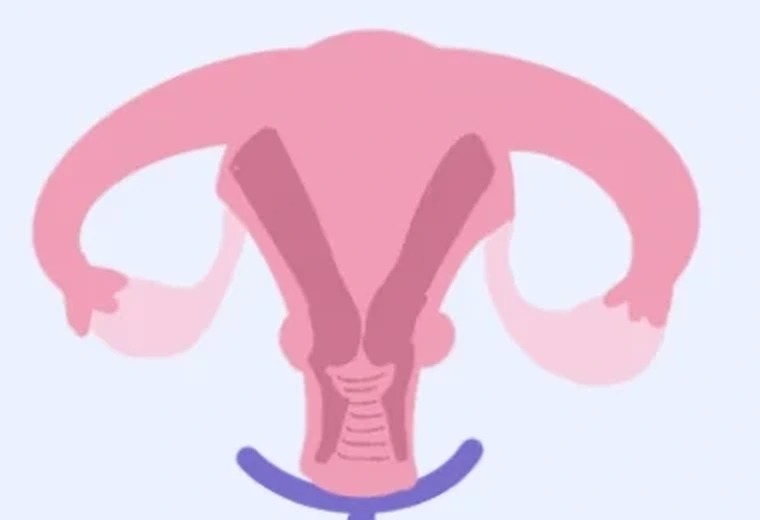
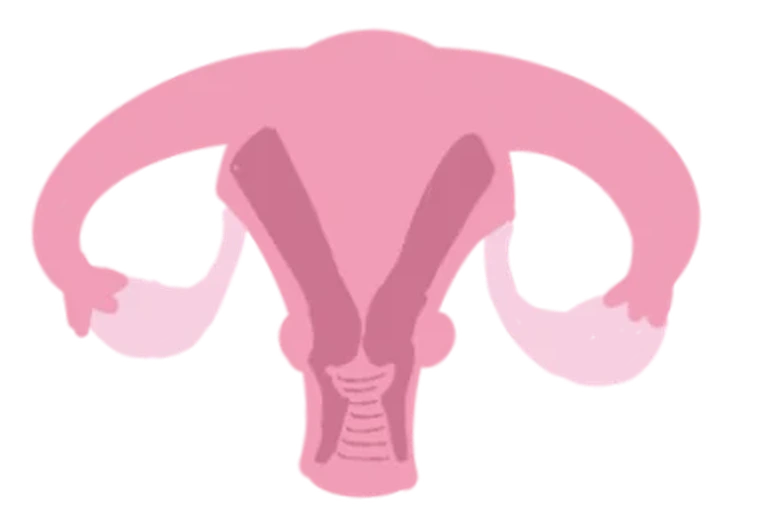
Draft: use Alexandra's clean uterus drawing for the lining panel

Changed region(s): [[0.3026, 0.8308, 0.6355, 1.0]]

diff --git a/cycle.html b/cycle.html
@@ -117,7 +117,7 @@
     @media(max-width:420px){.minis{grid-template-columns:1fr}}
     .tiles{display:grid;grid-template-columns:1fr 1fr;gap:10px;margin-bottom:10px;}
     .tile{margin:0;background:linear-gradient(180deg,#fdf6f9,#f7f1fc);border:1px solid #efe3f0;border-radius:14px;overflow:hidden;}
-    .tile svg{width:100%;height:auto;display:block;}
+    .tile svg{width:100%;height:auto;aspect-ratio:300/170;display:block;}
     .tile figcaption{padding:2px 12px 10px;font-size:.84rem;line-height:1.35;color:#4b5563;}
     .tile figcaption b{display:block;color:var(--text);font-size:.9rem;}
     @media(max-width:420px){.tiles{grid-template-columns:1fr}}
@@ -292,7 +292,7 @@
             <svg width="0" height="0" style="position:absolute" aria-hidden="true"><defs><radialGradient id="iAnt" cx=".45" cy=".45" r=".6"><stop offset="0" stop-color="#f6ecfc"/><stop offset="1" stop-color="#c9aee8"/></radialGradient></defs></svg>
             <div class="tiles">
               <figure class="tile"><svg id="ovsvg" viewBox="0 0 300 170" role="img" aria-labelledby="ovcap"></svg><figcaption><b>Ovary</b><span id="ovcap"></span></figcaption></figure>
-              <figure class="tile"><svg id="lnsvg" viewBox="0 0 300 170" role="img" aria-labelledby="lncap"></svg><figcaption><b>Uterine lining</b><span id="lncap"></span></figcaption></figure>
+              <figure class="tile"><svg id="lnsvg" viewBox="0 0 380 260" preserveAspectRatio="xMidYMid meet" role="img" aria-labelledby="lncap"></svg><figcaption><b>Uterus &amp; lining</b><span id="lncap"></span></figcaption></figure>
             </div>
             <ol class="steps" id="steps" aria-label="What the ovary is doing">
               <li><i><svg viewBox="0 0 28 28"><circle cx="14" cy="14" r="8" fill="#f2a3c0" stroke="#d977a0" stroke-width="1.5"/><circle cx="14" cy="14" r="3" fill="#9c3d7c"/></svg></i>Follicles wake up</li><li><i><svg viewBox="0 0 28 28"><circle cx="14" cy="14" r="12" fill="url(#iAnt)" stroke="#e08fb0" stroke-width="2"/><circle cx="19" cy="9" r="4" fill="#fbd0d8" stroke="#e57f95" stroke-width="1"/><circle cx="19" cy="9" r="1.4" fill="#e0607e"/></svg></i>Dominant follicle</li><li><i><svg viewBox="0 0 28 28"><circle cx="24.0" cy="14.0" r="1.7" fill="#f2a3c0"/><circle cx="22.1" cy="19.9" r="1.7" fill="#f2a3c0"/><circle cx="17.1" cy="23.5" r="1.7" fill="#f2a3c0"/><circle cx="10.9" cy="23.5" r="1.7" fill="#f2a3c0"/><circle cx="5.9" cy="19.9" r="1.7" fill="#f2a3c0"/><circle cx="4.0" cy="14.0" r="1.7" fill="#f2a3c0"/><circle cx="5.9" cy="8.1" r="1.7" fill="#f2a3c0"/><circle cx="10.9" cy="4.5" r="1.7" fill="#f2a3c0"/><circle cx="17.1" cy="4.5" r="1.7" fill="#f2a3c0"/><circle cx="22.1" cy="8.1" r="1.7" fill="#f2a3c0"/><circle cx="14" cy="14" r="6.5" fill="#f7b8cc" stroke="#d977a0" stroke-width="1.2"/><circle cx="14" cy="14" r="2.4" fill="#9c3d7c"/></svg></i>Egg released</li><li><i><svg viewBox="0 0 28 28"><circle cx="20.5" cy="14.0" r="5.2" fill="#f7c95a" stroke="#d9a12c" stroke-width=".8"/><circle cx="18.6" cy="18.6" r="5.2" fill="#f7c95a" stroke="#d9a12c" stroke-width=".8"/><circle cx="14.0" cy="20.5" r="5.2" fill="#f7c95a" stroke="#d9a12c" stroke-width=".8"/><circle cx="9.4" cy="18.6" r="5.2" fill="#f7c95a" stroke="#d9a12c" stroke-width=".8"/><circle cx="7.5" cy="14.0" r="5.2" fill="#f7c95a" stroke="#d9a12c" stroke-width=".8"/><circle cx="9.4" cy="9.4" r="5.2" fill="#f7c95a" stroke="#d9a12c" stroke-width=".8"/><circle cx="14.0" cy="7.5" r="5.2" fill="#f7c95a" stroke="#d9a12c" stroke-width=".8"/><circle cx="18.6" cy="9.4" r="5.2" fill="#f7c95a" stroke="#d9a12c" stroke-width=".8"/><circle cx="14" cy="14" r="5.5" fill="#f7c95a"/><circle cx="14" cy="14" r="2.2" fill="#b0731a"/></svg></i>Corpus luteum</li>
@@ -536,29 +536,20 @@
         s+=cl(DX,DY,r,toY,false);if(pale)s+=cl(DX,DY,r,Math.min(1,(v-24)/4),true);
         cap=pg?'The corpus luteum stays big to support the pregnancy.':(v<17?'The empty follicle turns into the yellow corpus luteum.':v<=23?'The corpus luteum makes progesterone.':'Without a pregnancy, the corpus luteum fades.')}
       return [s,cap]}
-    function liningSVG(x){const v=dv(x),d=dayOf(x),pg=preg&&v>=21,men=d<=5&&!pg;
-      let h;if(pg)h=88;else if(v<=5.5)h=72-56*(v-1)/4.5;else if(v<=14)h=16+44*(v-5.5)/8.5;else if(v<=26)h=60+26*(v-14)/12;else h=86-8*(v-26)/2;
-      const base=150,top=base-28-h;let s='<defs><linearGradient id="gEnd" x1="0" y1="0" x2="0" y2="1"><stop offset="0" stop-color="#f9cdd8"/><stop offset="1" stop-color="#ee9bb0"/></linearGradient><linearGradient id="gMyo" x1="0" y1="0" x2="0" y2="1"><stop offset="0" stop-color="#e48aa2"/><stop offset="1" stop-color="#c9667f"/></linearGradient></defs>';
-      s+='<rect x="0" y="'+(base-28)+'" width="300" height="48" fill="url(#gMyo)"/>';
-      let surf='M0 '+(base-28);const n=14;for(let i=0;i<=n;i++){const xx=i/n*300,yy=top+Math.sin(i*1.7+v)*3+(men?Math.sin(i*2.3)*8*(1-(v-1)/4.5):0);surf+=' L'+f1(xx)+' '+f1(yy)}surf+=' L300 '+(base-28)+'Z';
-      s+='<path d="'+surf+'" fill="url(#gEnd)" stroke="#e48aa2" stroke-width="1.5"/>';
-      // glands (straight -> coiled) and spiral arteries
-      const coil=v>14&&!men?Math.min(1,(v-14)/6):0;
-      for(let i=0;i<10;i++){const gx=18+i*29;let g='M'+gx+' '+(base-28);const steps=8;for(let k=1;k<=steps;k++){const yy=base-28-(h-6)*k/steps;g+=' L'+f1(gx+Math.sin(k*1.6)*(1.5+coil*5))+' '+f1(yy)}
-        s+='<path d="'+g+'" fill="none" stroke="#fbe7ec" stroke-width="'+f1(3+coil*1.5)+'" stroke-linecap="round" opacity=".9"/>';
-        const ax=gx+14;let a='M'+ax+' '+(base-28);for(let k=1;k<=10;k++){const yy=base-28-(h-10)*k/10;a+=' L'+f1(ax+Math.sin(k*1.4)*(2+h/22))+' '+f1(yy)}
-        s+='<path d="'+a+'" fill="none" stroke="#c43d5e" stroke-width="1.6" stroke-linecap="round" opacity=".85"/>'}
-      if(men){const k=(v-1)/4.5,cnt=bc==='hiud'?4:12;for(let i=0;i<cnt;i++){const px=40+i*21+(i%3)*4,py=top-6-((v*20+i*17)%34);s+='<ellipse cx="'+f1(px)+'" cy="'+f1(py)+'" rx="'+(3+(i%3))+'" ry="'+(2+(i%2))+'" transform="rotate('+(i*37%60-30)+' '+f1(px)+' '+f1(py)+')" fill="#c2304f" opacity="'+f1(.85-k*.4)+'"/>'}}
-      if(pg)s+='<circle cx="150" cy="'+f1(top+10)+'" r="7" fill="#f7b8cc" stroke="#d977a0" stroke-width="1.4"/><circle cx="150" cy="'+f1(top+10)+'" r="2.6" fill="#9c3d7c"/>';
-      s+='<text x="8" y="'+(base+12)+'" font-size="10.5" fill="#fff" font-family="Geist,sans-serif" font-weight="600">muscle wall</text>';
-      const cap=pg?'An embryo implants and the lining stays.':men?'The lining sheds: this is the period.':v<14?'Estrogen rebuilds and thickens the lining.':v<15?'Thick and ready.':v<26?'Progesterone makes it spongy and ready for an embryo.':'Progesterone falls; the lining is about to shed.';
+    // uterine lining on Alexandra's own uterus drawing (same frame as the overlay coordinates)
+    function liningSVG(x){const v=dv(x),d=dayOf(x),pg=preg&&v>=21,men=d<=5&&!pg,th=liningAt(x);
+      let s='<image href="WebsitePics/WH_Uterus.webp" x="0" y="0" width="380" height="260"/>';
+      s+='<path d="M124 74 L180 168 L238 74" fill="none" stroke="'+(men?'#b3263e':'#c2416b')+'" stroke-opacity="'+(men?.85:.55)+'" stroke-width="'+(th*2.6).toFixed(1)+'" stroke-linecap="round" stroke-linejoin="round"/>';
+      if(men){const n=bc==='hiud'?1:(d<=2?3:d===3?2:1);for(let j=0;j<n;j++)s+='<ellipse class="drop" cx="'+(175+j*6)+'" cy="244" rx="4" ry="5.5" fill="#b3263e" style="animation-delay:'+(j*.45)+'s"/>'}
+      if(pg)s+='<circle cx="182" cy="112" r="8" fill="#f7b8cc" stroke="#d977a0" stroke-width="1.5"/><circle cx="182" cy="112" r="3" fill="#9c3d7c"/>';
+      const cap=pg?'An embryo implants and the lining stays.':men?'The lining sheds and leaves as the period.':v<14?'Estrogen rebuilds and thickens the lining.':v<15?'Thick and ready.':v<26?'Progesterone keeps it thick and ready for an embryo.':'Progesterone falls; the lining is about to shed.';
       return [s,cap]}
     let insetTok=0;
     async function drawInsets(x){const tok=++insetTok,pk=pkey(dayOf(x)),oOwn='WebsitePics/cycle/ovary-'+PHN[pk]+'.png',lOwn='WebsitePics/cycle/uterus-'+PHN[pk]+'.png';
       const [ho,hl]=await Promise.all([tryImg(oOwn),tryImg(lOwn)]);if(tok!==insetTok)return;
       const o=ovarySVG(x),l=liningSVG(x);
       $('ovsvg').innerHTML=ho?'<image href="'+oOwn+'" width="300" height="170"/>':o[0];$('ovcap').textContent=o[1];
-      $('lnsvg').innerHTML=hl?'<image href="'+lOwn+'" width="300" height="170"/>':l[0];$('lncap').textContent=l[1]}
+      $('lnsvg').innerHTML=hl?'<image href="'+lOwn+'" width="380" height="260"/>':l[0];$('lncap').textContent=l[1]}
     function drawBody(x){const d=dayOf(x),v=dv(x),ov=clamp(0.2+0.5*H.E.f(v)+0.5*H.LH.f(v)),men=d<=5&&!(preg&&d>=21),br=clamp(0.25+0.75*Math.max(H.LH.f(v),H.FSH.f(v)));
       $('glows').innerHTML='<circle cx="210.7" cy="91" r="'+(16+br*10).toFixed(1)+'" fill="#b07fb8" opacity="'+(.12+br*.25).toFixed(2)+'"/><circle cx="211" cy="150" r="12" fill="#e9a07f" opacity="'+((preg&&d>=21)?.4:.18)+'"/>'+OV.map(o=>'<circle cx="'+o[0]+'" cy="'+o[1]+'" r="'+(7+ov*7).toFixed(2)+'" fill="#e58fa0" opacity="'+(.2+ov*.4).toFixed(2)+'"/>').join('')
         +'<circle cx="'+UT[0]+'" cy="'+UT[1]+'" r="'+(8+liningAt(x)*1.2).toFixed(2)+'" fill="'+(men?'#b3263e':'#e58fa0')+'" opacity="'+(men?.35:.2)+'"/>';
